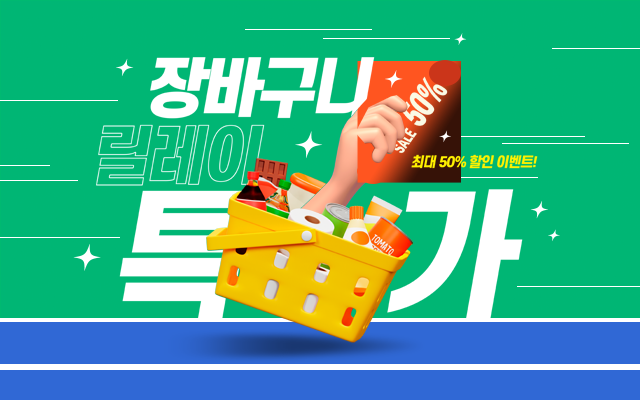
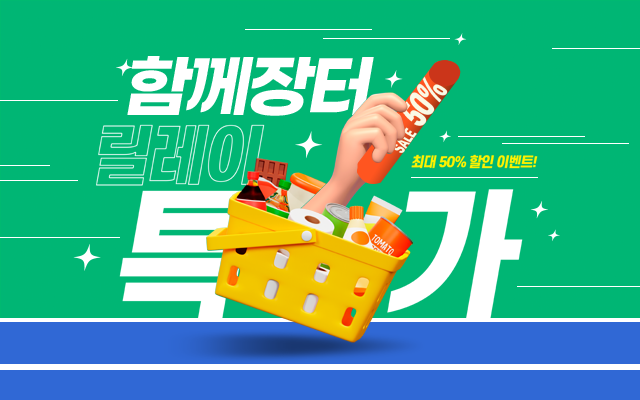
[수정] 디자인 및 기타 UI 수정

Changed region(s): [[0.1875, 0.12, 0.7188, 0.48], [0.5312, 0.33, 0.5938, 0.39]]

diff --git a/dist/css/common.css b/dist/css/common.css
@@ -1011,7 +1011,7 @@ table.wfull.bd tbody tr.list1 td {
 }
 
 .fc_red {
-  color: #ec0e03 !important
+  color: #0278fe !important
 }
 
 .fc_084 {
@@ -1067,7 +1067,7 @@ table.wfull.bd tbody tr.list1 td {
 }
 
 .fc_90 {
-  color: #f33e31 !important
+  color: #0278fe !important
 }
 
 .mart0 {
@@ -9483,25 +9483,35 @@ input:-webkit-autofill {
 
 .pg_page,
 .pg_current {
-  padding: 0 8px;
-  min-width: 9px;
-  height: 25px;
-  color: #353e44;
-  font-weight: normal;
-  line-height: 25px;
+  /* 기존 width/height 유지 */
+  width: 32px !important;
+  height: 32px !important;
+
+  /* 이 부분만 25px → 32px 로 변경 */
+  line-height: 32px !important;
+
+  /* 텍스트가 가운데 올 수 있게 vertical-align 유지 */
   vertical-align: middle;
-  border: 1px solid #c8c8c8
+
+  /* padding은 0으로 초기화하고, 필요시 마진으로 간격 조절 */
+  padding: 0 !important;
+  margin: 0 6px;
+  /* 예시: 좌우 6px 간격 */
+
+  /* 나머지 스타일 */
+  border: none !important;
+  border-radius: 50%;
 }
 
 .pg_page {
   background-color: #fbfbfb;
-  text-decoration: none
+
+  text-decoration: none;
 }
 
 .pg_current {
-  background-color: #333;
+  background-color: #0278fe;
   color: #fff;
-  border: 1px solid #333 !important
 }
 
 .pg_start,
@@ -9642,6 +9652,18 @@ li {
   color: #fff !important
 }
 
+.wset_blue {
+  background: #0278fe;
+  border: 1px solid #0278fe;
+  color: #fff !important
+}
+
+.wset_blue:hover {
+  background: #0278fe;
+  border: 1px solid #0278fe;
+  color: #fff !important
+}
+
 table .spr,
 .total_price .spr {
   display: inline-block
@@ -9657,7 +9679,7 @@ table .spr,
 .anc_tit:after {
   width: 4px;
   height: 14px;
-  background-color: #f33e31;
+  background-color: #0278fe;
   display: inline-block;
   position: absolute;
   left: 0;
@@ -10160,6 +10182,8 @@ table .spr,
   color: #000000;
   font-family: Pretendard;
   font-weight: bold;
+  /* 자간을 0.05em 만큼 늘려서 가독성 향상 */
+  letter-spacing: 0.03em;
 }
 
 .cont_box>.row>.button {
@@ -11752,12 +11776,12 @@ ul.slick-dots {
   margin-right: 5px;
   font-size: 18px;
   font-family: 'Pretendard-Bd';
-  color: #72d5ff
+  color: #0278fe
 }
 
 .bestca ul li .price .sale>.percent,
 .pr_desc ul li .price .sale>.percent {
-  color: #72d5ff
+  color: #0278fe
 }
 
 .bestca ul li .petc,
@@ -12222,7 +12246,6 @@ ul.slick-dots {
 .vi_txt_bx .timesale {
   margin-top: 30px;
   padding: 39px 30px 22px;
-  border: 1px solid #dddddd;
   border-radius: 5px
 }
 
@@ -13679,7 +13702,7 @@ ul.slick-dots {
 
 .aside_cs dt:hover a,
 .aside_cs dt:hover a:after {
-  color: #ed3636
+  color: #0278fe
 }
 
 .aside_cs dd li a:hover {

diff --git a/dist/css/mobile.css b/dist/css/mobile.css
@@ -10249,6 +10249,8 @@ html.m_open body {
   line-height: 3.47vw;
   color: #000000;
   font-weight: bold;
+  /* 자간을 0.02em 만큼 늘려서 가독성 향상 */
+  letter-spacing: 0.01em;
 }
 
 .cont_box>.row>.button {
@@ -12762,11 +12764,11 @@ b {
   margin-right: 1.11vw;
   font-size: 4.5vw;
   font-family: 'Pretendard-Bd';
-  color: #72d5ff
+  color: #0278fe
 }
 
 .pr_desc_horizontal ul li .price .sale>.percent {
-  color: #72d5ff
+  color: #0278fe
 }
 
 .pr_desc_horizontal .timesale_image {
@@ -12993,28 +12995,35 @@ b {
 }
 
 .pg_page,
-.qa_page,
 .pg_current {
-  padding: 0 8px;
-  min-width: 9px;
-  height: 25px;
-  color: #353e44;
-  font-weight: normal;
-  line-height: 25px;
+  /* 기존 width/height 유지 */
+  width: 8vw !important;
+  height: 8vw !important;
+
+  /* 이 부분만 25px → 32px 로 변경 */
+  line-height: 8vw !important;
+
+  /* 텍스트가 가운데 올 수 있게 vertical-align 유지 */
   vertical-align: middle;
-  border: 1px solid #c8c8c8
+
+  /* padding은 0으로 초기화하고, 필요시 마진으로 간격 조절 */
+  padding: 0 !important;
+  margin: 0 1vw;
+  /* 예시: 좌우 6px 간격 */
+
+  /* 나머지 스타일 */
+  border: none !important;
+  border-radius: 50%;
 }
 
-.pg_page,
-.qa_page {
+.pg_page {
   background-color: #fbfbfb;
   text-decoration: none
 }
 
 .pg_current {
-  background-color: #333;
+  background-color: #0278fe;
   color: #fff;
-  border: 1px solid #333 !important
 }
 
 .pg_start,

diff --git a/application/libraries/Mypage_template.php b/application/libraries/Mypage_template.php
@@ -259,7 +259,7 @@ class Mypage_template {
             // $this->admin_snb1_printMenu2(2, '상품 엑셀일괄수정', $asideUrl.'?code=seller_goods_xls_mod').
             $this->admin_snb1_printMenu2(2, '상품 재고관리', $asideUrl.'?code=seller_goods_stock', $jaego1).
             $this->admin_snb1_printMenu2(2, '상품 옵션재고관리', $asideUrl.'?code=seller_goods_optstock', $jaego2).
-            $this->admin_snb1_printMenu2(2, '브랜드관리', $asideUrl.'?code=seller_goods_brand_list').
+            // $this->admin_snb1_printMenu2(2, '브랜드관리', $asideUrl.'?code=seller_goods_brand_list').
             $this->admin_snb1_printMenu2(2, '상품 문의관리', $asideUrl.'?code=seller_goods_qa', $qaCnt).
             $this->admin_snb1_printMenu2(2, '상품 평점관리', $asideUrl.'?code=seller_goods_review', $starCnt).
             $this->admin_snb1_printMenu1(3, '주문관리').
@@ -362,7 +362,7 @@ class Mypage_template {
                 // $this->admin_snb2_printMenu2(6, '상품 엑셀일괄수정', $asideUrl.'?code=partner_goods_xls_mod').
                 $this->admin_snb2_printMenu2(6, '상품 재고관리', $asideUrl.'?code=partner_goods_stock', $jaego1).
                 $this->admin_snb2_printMenu2(6, '상품 옵션재고관리', $asideUrl.'?code=partner_goods_optstock', $jaego2).
-                $this->admin_snb2_printMenu2(6, '브랜드관리', $asideUrl.'?code=partner_goods_brand_list').
+                // $this->admin_snb2_printMenu2(6, '브랜드관리', $asideUrl.'?code=partner_goods_brand_list').
                 $this->admin_snb2_printMenu2(6, '상품 문의관리', $asideUrl.'?code=partner_goods_qa', $qaCnt).
                 $this->admin_snb2_printMenu2(6, '상품 평점관리', $asideUrl.'?code=partner_goods_review', $starCnt).
                 $this->admin_snb2_printMenu1(7, '주문관리').

diff --git a/application/controllers/Bbs.php b/application/controllers/Bbs.php
@@ -2222,7 +2222,7 @@ class Bbs extends CI_Controller
             if ($member['grade'] > $board['tail_priv']) {
                 // 권한 부족 시 버튼 비활성화
                 $returnTag .= "  <div class=\"comment-input-area disabled\">\n";
-                $returnTag .= "    <textarea name=\"memo\" class=\"comment-input-text\" placeholder=\"댓글을 입력해주세요.\"></textarea>\n";
+                $returnTag .= "    <textarea name=\"memo\" class=\"comment-input-text\" placeholder=\"댓글을 작성할 권한이 없습니다.\"></textarea>\n";
                 $returnTag .= "    <button type=\"button\" class=\"btn btn-disabled\" onclick=\"alert('댓글을 작성할 권한이 없습니다.');\">댓글등록</button>\n";
                 $returnTag .= "  </div>\n";
             } else {

diff --git a/application/views/mypage/seller/seller_main.php b/application/views/mypage/seller/seller_main.php
@@ -105,7 +105,7 @@
                     </table>
 			    </td>
                 <td width="1%"></td>
-                <td width="49.5%" valign="top" class="sidx_head01">
+                <!-- <td width="49.5%" valign="top" class="sidx_head01">
                     <h2>질문과답변<a href="<?php echo base_url(); ?>bbs/noticeList?boardid=21" class="btn_small">바로가기</a></h2>
                     <table>
                         <colgroup>
@@ -122,7 +122,7 @@
                             <?=$qnaStr?>
                         </tbody>
                     </table>
-			    </td>
+			    </td> -->
 		    </tr>
 		</table>
 	</section>

diff --git a/application/views/pc/bbs/qna_read.php b/application/views/pc/bbs/qna_read.php
@@ -24,7 +24,7 @@
 	</div>
     <?=$result_yes?>
     <div class="btn_confirm">
-		<a href="<?php echo base_url(); ?>bbs/qna_write" class="btn_lsmall">상담문의하기</a>
+		<a href="<?php echo base_url(); ?>bbs/qna_write" class="btn_medium">상담문의하기</a>
 		<a href="<?php echo base_url(); ?>bbs/qna_modify?index_no=<?php echo $index_no; ?>" class="btn_lsmall bx-white">수정</a>
 		<a href="<?php echo base_url(); ?>bbs/qna_list" class="btn_lsmall bx-white">목록</a>
 		<a href="javascript:del('<?php echo base_url(); ?>process/qna_del?index_no=<?php echo $index_no; ?>&mode=d');" class="btn_lsmall bx-white">삭제</a>

diff --git a/application/views/mb/index.php b/application/views/mb/index.php
@@ -423,14 +423,14 @@
 
 <div class="footer-top">
 	<!-- 고객센터 -->
-	<div class="footer-box">
+	<!-- <div class="footer-box">
 		<h3 class="footer-title">고객센터</h3>
 		<p class="footer-phone">1522-8920</p>
 		<div class="footer-timebox">
 			<p class="footer-time-label">상담시간 : 오전 10시 ~ 오후 06시</p>
 			<p class="footer-time">점심시간 : 오전 11시 30분 ~ 오후 12시 30분</p>
 		</div>
-	</div>
+	</div> -->
 
 	<!-- 공지사항 -->
 	<div class="footer-box">

diff --git a/application/views/pc/bbs/basic/list.php b/application/views/pc/bbs/basic/list.php
@@ -24,7 +24,7 @@
                 class="frm_input"
                 value="<?php echo $stx; ?>"
                 placeholder="검색어를 입력하세요">
-            <button type="submit" class="btn_search">검색</button>
+            <button type="submit" class="btn_search btn_small bx-white">검색</button>
         </form>
     </div>
 

diff --git a/application/views/pc/bbs/qna_list.php b/application/views/pc/bbs/qna_list.php
@@ -6,7 +6,7 @@
 	</h2>
 
 	<div class="tar marb5">
-		<a href="<?php echo base_url();?>bbs/qna_write" class="btn_small wset">상담문의하기</a>
+		<a href="<?php echo base_url();?>bbs/qna_write" class="btn_medium wset_blue">상담문의하기</a>
 	</div>
     <div class="tbl_head02 tbl_wrap">
 		<table>
